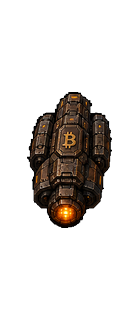
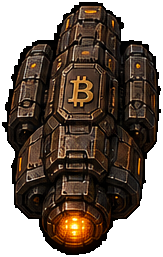
Missions up in space; restore BTC pre-pad; select orbit BTC -5%

diff --git a/game.js b/game.js
@@ -2030,142 +2030,142 @@
     {
       "id": "btcHullT1",
       "path": "assets/images/hulls/btc/t1.png",
[2 lines of base64/hex data omitted]
       "role": "btc-hull-t1",
       "skipPunch": true,
       "noFallback": true,
-      "lockedAt": "2026-09-18T16:14:21Z",
-      "note": "Ryan heart 2026-09-18 \u2014 BTC pad size ~18.5% fill"
+      "lockedAt": "2026-09-18T17:17:21Z",
+      "note": "Ryan rescinded pad 2026-09-18 \u2014 restored pre_pad originals; select orbit -5% only"
     },
     {
       "id": "btcHullT1Clear",
       "path": "assets/images/hulls/btc/t1_clear.png",
[2 lines of base64/hex data omitted]
       "role": "btc-hull-t1",
       "skipPunch": true,
       "noFallback": true,
-      "lockedAt": "2026-09-18T16:14:21Z",
-      "note": "Ryan heart 2026-09-18 \u2014 BTC pad size ~18.5% fill"
+      "lockedAt": "2026-09-18T17:17:21Z",
+      "note": "Ryan rescinded pad 2026-09-18 \u2014 restored pre_pad originals; select orbit -5% only"
     },
     {
       "id": "btcHullT2",
       "path": "assets/images/hulls/btc/t2.png",
[2 lines of base64/hex data omitted]
       "role": "btc-hull-t2",
       "skipPunch": true,
       "noFallback": true,
-      "lockedAt": "2026-09-18T16:14:21Z",
-      "note": "Ryan heart 2026-09-18 \u2014 BTC pad size ~18.5% fill"
+      "lockedAt": "2026-09-18T17:17:21Z",
+      "note": "Ryan rescinded pad 2026-09-18 \u2014 restored pre_pad originals; select orbit -5% only"
     },
     {
       "id": "btcHullT2Clear",
       "path": "assets/images/hulls/btc/t2_clear.png",
[2 lines of base64/hex data omitted]
       "role": "btc-hull-t2",
       "skipPunch": true,
       "noFallback": true,
-      "lockedAt": "2026-09-18T16:14:21Z",
-      "note": "Ryan heart 2026-09-18 \u2014 BTC pad size ~18.5% fill"
+      "lockedAt": "2026-09-18T17:17:21Z",
+      "note": "Ryan rescinded pad 2026-09-18 \u2014 restored pre_pad originals; select orbit -5% only"
     },
     {
       "id": "btcHullT3",
       "path": "assets/images/hulls/btc/t3.png",
[2 lines of base64/hex data omitted]
       "role": "btc-hull-t3",
       "skipPunch": true,
       "noFallback": true,
-      "lockedAt": "2026-09-18T16:14:21Z",
-      "note": "Ryan heart 2026-09-18 \u2014 BTC pad size ~18.5% fill"
+      "lockedAt": "2026-09-18T17:17:21Z",
+      "note": "Ryan rescinded pad 2026-09-18 \u2014 restored pre_pad originals; select orbit -5% only"
     },
     {
       "id": "btcHullT3Clear",
       "path": "assets/images/hulls/btc/t3_clear.png",
[2 lines of base64/hex data omitted]
       "role": "btc-hull-t3",
       "skipPunch": true,
       "noFallback": true,
-      "lockedAt": "2026-09-18T16:14:21Z",
-      "note": "Ryan heart 2026-09-18 \u2014 BTC pad size ~18.5% fill"
+      "lockedAt": "2026-09-18T17:17:21Z",
+      "note": "Ryan rescinded pad 2026-09-18 \u2014 restored pre_pad originals; select orbit -5% only"
     },
     {
       "id": "btcHullT4",
       "path": "assets/images/hulls/btc/t4.png",
[2 lines of base64/hex data omitted]
       "role": "btc-hull-t4",
       "skipPunch": true,
       "noFallback": true,
-      "lockedAt": "2026-09-18T16:14:21Z",
-      "note": "Ryan heart 2026-09-18 \u2014 BTC pad size ~18.5% fill"
+      "lockedAt": "2026-09-18T17:17:21Z",
+      "note": "Ryan rescinded pad 2026-09-18 \u2014 restored pre_pad originals; select orbit -5% only"
     },
     {
       "id": "btcHullT4Clear",
       "path": "assets/images/hulls/btc/t4_clear.png",
[2 lines of base64/hex data omitted]
       "role": "btc-hull-t4",
       "skipPunch": true,
       "noFallback": true,
-      "lockedAt": "2026-09-18T16:14:21Z",
-      "note": "Ryan heart 2026-09-18 \u2014 BTC pad size ~18.5% fill"
+      "lockedAt": "2026-09-18T17:17:21Z",
+      "note": "Ryan rescinded pad 2026-09-18 \u2014 restored pre_pad originals; select orbit -5% only"
     },
     {
       "id": "btcHullT5",
       "path": "assets/images/hulls/btc/t5.png",
[2 lines of base64/hex data omitted]
       "role": "btc-hull-t5",
       "skipPunch": true,
       "noFallback": true,
-      "lockedAt": "2026-09-18T16:14:21Z",
-      "note": "Ryan heart 2026-09-18 \u2014 BTC pad size ~18.5% fill"
+      "lockedAt": "2026-09-18T17:17:21Z",
+      "note": "Ryan rescinded pad 2026-09-18 \u2014 restored pre_pad originals; select orbit -5% only"
     },
     {
       "id": "btcHullT5Clear",
       "path": "assets/images/hulls/btc/t5_clear.png",
[2 lines of base64/hex data omitted]
       "role": "btc-hull-t5",
       "skipPunch": true,
       "noFallback": true,
-      "lockedAt": "2026-09-18T16:14:21Z",
-      "note": "Ryan heart 2026-09-18 \u2014 BTC pad size ~18.5% fill"
+      "lockedAt": "2026-09-18T17:17:21Z",
+      "note": "Ryan rescinded pad 2026-09-18 \u2014 restored pre_pad originals; select orbit -5% only"
     },
     {
       "id": "btcHullT6",
       "path": "assets/images/hulls/btc/t6.png",
[2 lines of base64/hex data omitted]
       "role": "btc-hull-t6",
       "skipPunch": true,
       "noFallback": true,
-      "lockedAt": "2026-09-18T16:14:21Z",
-      "note": "Ryan heart 2026-09-18 \u2014 BTC pad size ~18.5% fill"
+      "lockedAt": "2026-09-18T17:17:21Z",
+      "note": "Ryan rescinded pad 2026-09-18 \u2014 restored pre_pad originals; select orbit -5% only"
     },
     {
       "id": "btcHullT6Clear",
       "path": "assets/images/hulls/btc/t6_clear.png",
[2 lines of base64/hex data omitted]
       "role": "btc-hull-t6",
       "skipPunch": true,
       "noFallback": true,
-      "lockedAt": "2026-09-18T16:14:21Z",
-      "note": "Ryan heart 2026-09-18 \u2014 BTC pad size ~18.5% fill"
+      "lockedAt": "2026-09-18T17:17:21Z",
+      "note": "Ryan rescinded pad 2026-09-18 \u2014 restored pre_pad originals; select orbit -5% only"
     },
     {
       "id": "btcHullT7",
       "path": "assets/images/hulls/btc/t7.png",
[2 lines of base64/hex data omitted]
       "role": "btc-hull-t7",
       "skipPunch": true,
       "noFallback": true,
-      "lockedAt": "2026-09-18T16:14:21Z",
-      "note": "Ryan heart 2026-09-18 \u2014 BTC pad size ~18.5% fill"
+      "lockedAt": "2026-09-18T17:17:21Z",
+      "note": "Ryan rescinded pad 2026-09-18 \u2014 restored pre_pad originals; select orbit -5% only"
     },
     {
       "id": "btcHullT7Clear",
       "path": "assets/images/hulls/btc/t7_clear.png",
[2 lines of base64/hex data omitted]
       "role": "btc-hull-t7",
       "skipPunch": true,
       "noFallback": true,
-      "lockedAt": "2026-09-18T16:14:21Z",
-      "note": "Ryan heart 2026-09-18 \u2014 BTC pad size ~18.5% fill"
+      "lockedAt": "2026-09-18T17:17:21Z",
+      "note": "Ryan rescinded pad 2026-09-18 \u2014 restored pre_pad originals; select orbit -5% only"
     }
   ],
   "lots": {
@@ -26102,14 +26102,16 @@
     gx.setTransform(1, 0, 0, 1, 0, 0);
     gx.clearRect(0, 0, size, size);
     // Match launchArt fit math so bubbles stay sharp (was tiny pad + soft CSS upscale).
+    // BTC orbit bubbles only: 5% smaller than restored pre-pad hulls (not launch, not flight).
     const spr = hullSprite(id, 1);
     if (spr && (spr.width || spr.naturalWidth)) {
       const iw = spr.width || spr.naturalWidth, ih = spr.height || spr.naturalHeight;
       const pad = 4;
       const noseUp = id === "atom";
-      const sc = noseUp
+      let sc = noseUp
         ? Math.min((size - pad * 2) / iw, (size - pad * 2) / ih)
         : Math.min((size - pad * 2) / ih, (size - pad * 2) / iw);
+      if (id === "btc") sc *= 0.95;
       const dw = iw * sc, dh = ih * sc;
       gx.save();
       gx.translate(size / 2, size / 2);

diff --git a/style.css b/style.css
@@ -1710,7 +1710,11 @@ html:fullscreen, html:-webkit-full-screen, body:fullscreen, body:-webkit-full-sc
   pointer-events: none;
   z-index: 12;
 }
-#hud .mission-side { pointer-events: none; }
+#hud .mission-side {
+  pointer-events: none;
+  bottom: 42px; /* clear WASD / hint strip */
+}
 @media (max-height: 640px) {
-  .mission-side, .mission-side-mkt { bottom: 12px; max-height: 28vh; }
+  #hud .mission-side { bottom: 36px; max-height: 28vh; }
+  .mission-side-mkt { bottom: 12px; max-height: 28vh; }
 }
